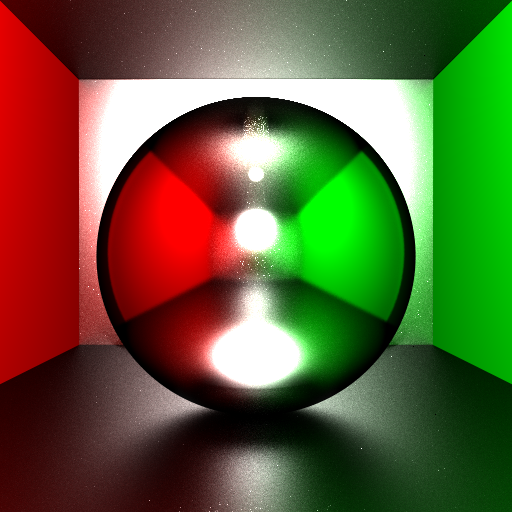
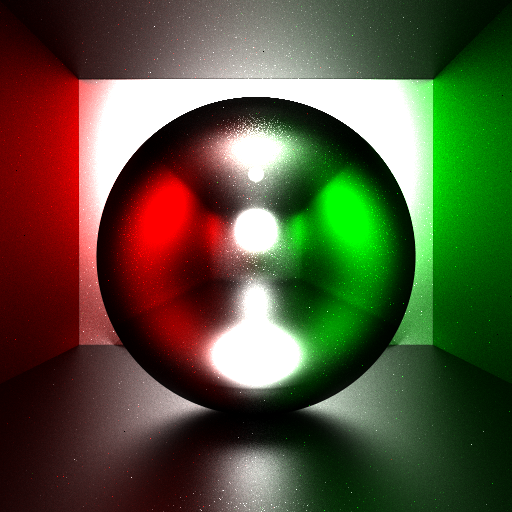
readme

diff --git a/README.md b/README.md
@@ -24,7 +24,7 @@
 - [X] Bidirectional Path Tracer
 > - [X] Point Lights
 > - [ ] Spot Lights
-> - [ ] Area Lights
+> - [X] Area Lights
 > - [ ] Heuristic Light Estimation 
 - [ ] Acceleration
 > - [ ] Hybrid Renderer
@@ -33,7 +33,7 @@
 > - [ ] Several Classes 
 > - [ ] DSL
 - [ ] Material
-> - [ ] Mat Sphere
+> - [X] Mat Sphere
 > - [ ] Mixed Shader(Blender)
 > - [ ] BTDF
 - [ ] Microfacet Distribution
@@ -44,7 +44,7 @@
 
 ## Gallery
 
-*Bidirectional Path Tracing, intel core i7x8 logical cores, 512spp*
+*Bidirectional Path Tracing, intel core i7x8 logical cores, 1024spp*
 
 ```json
 {
